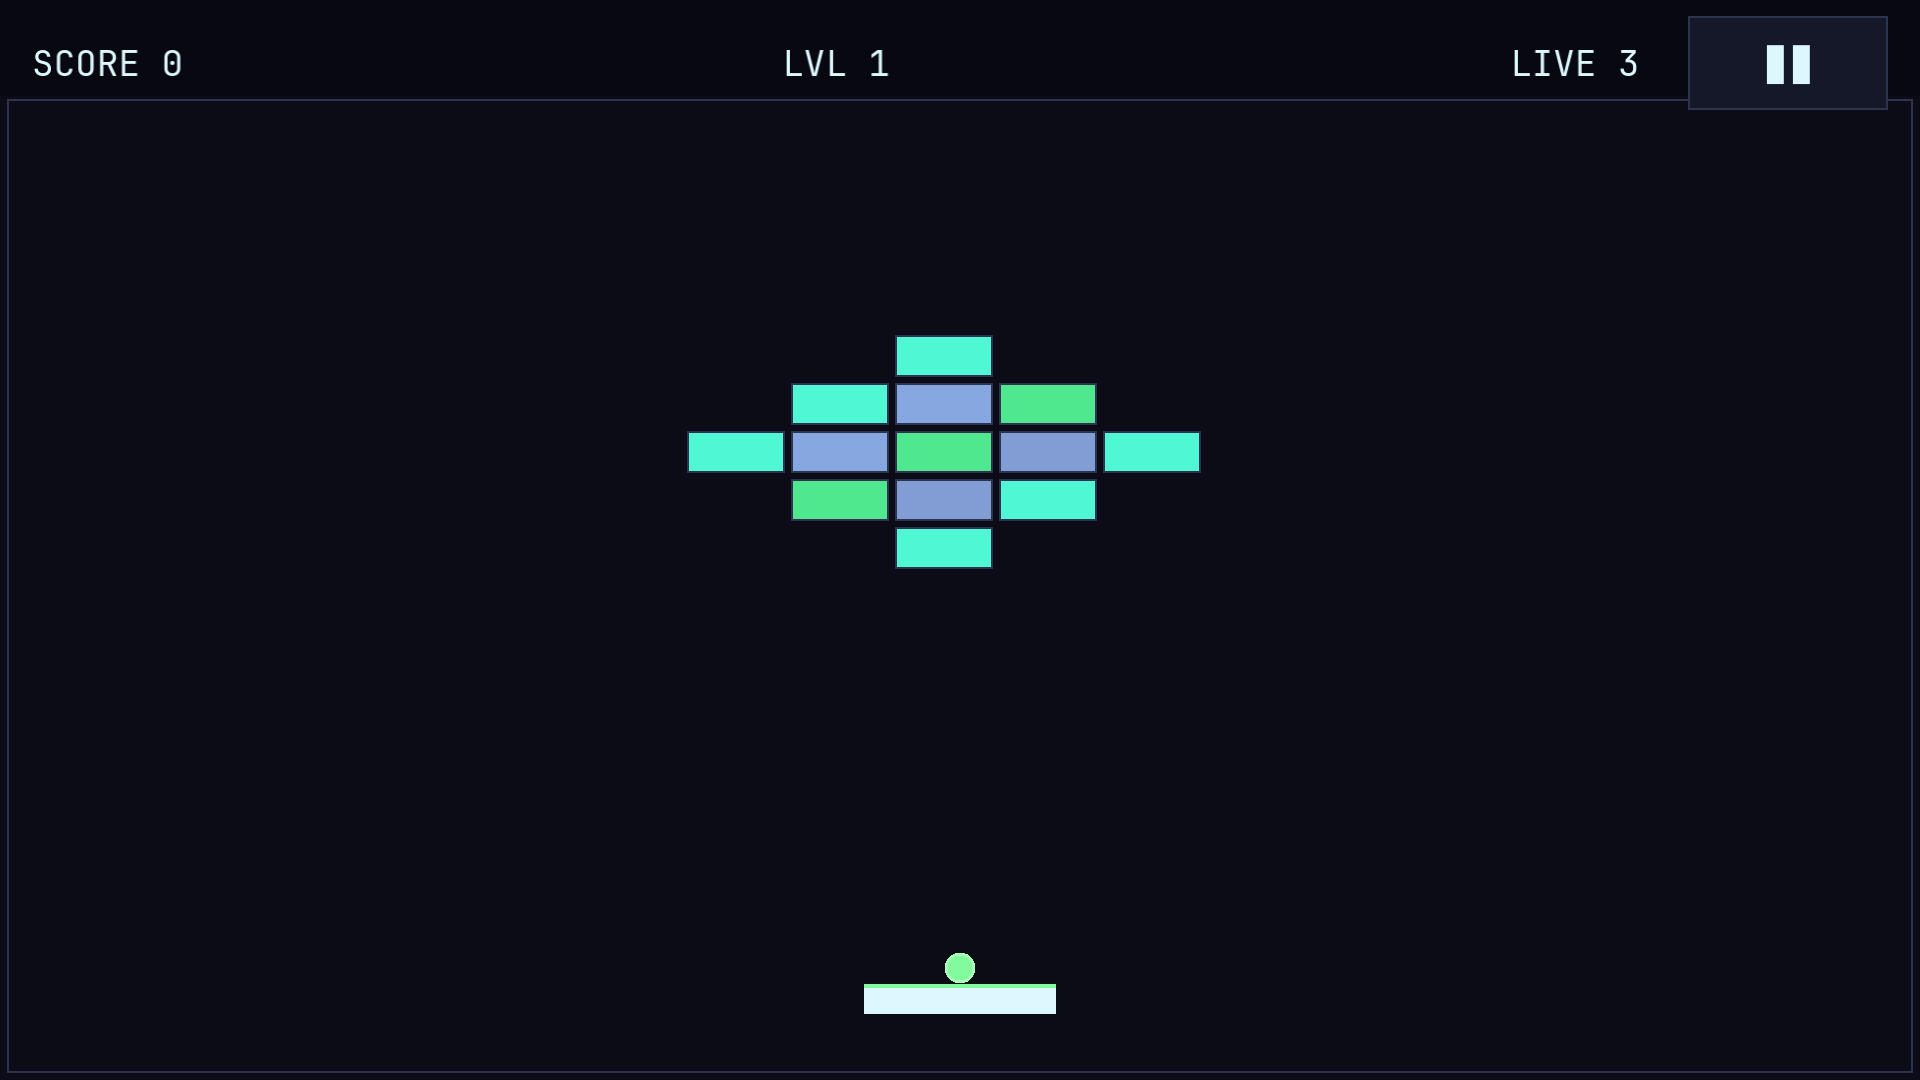
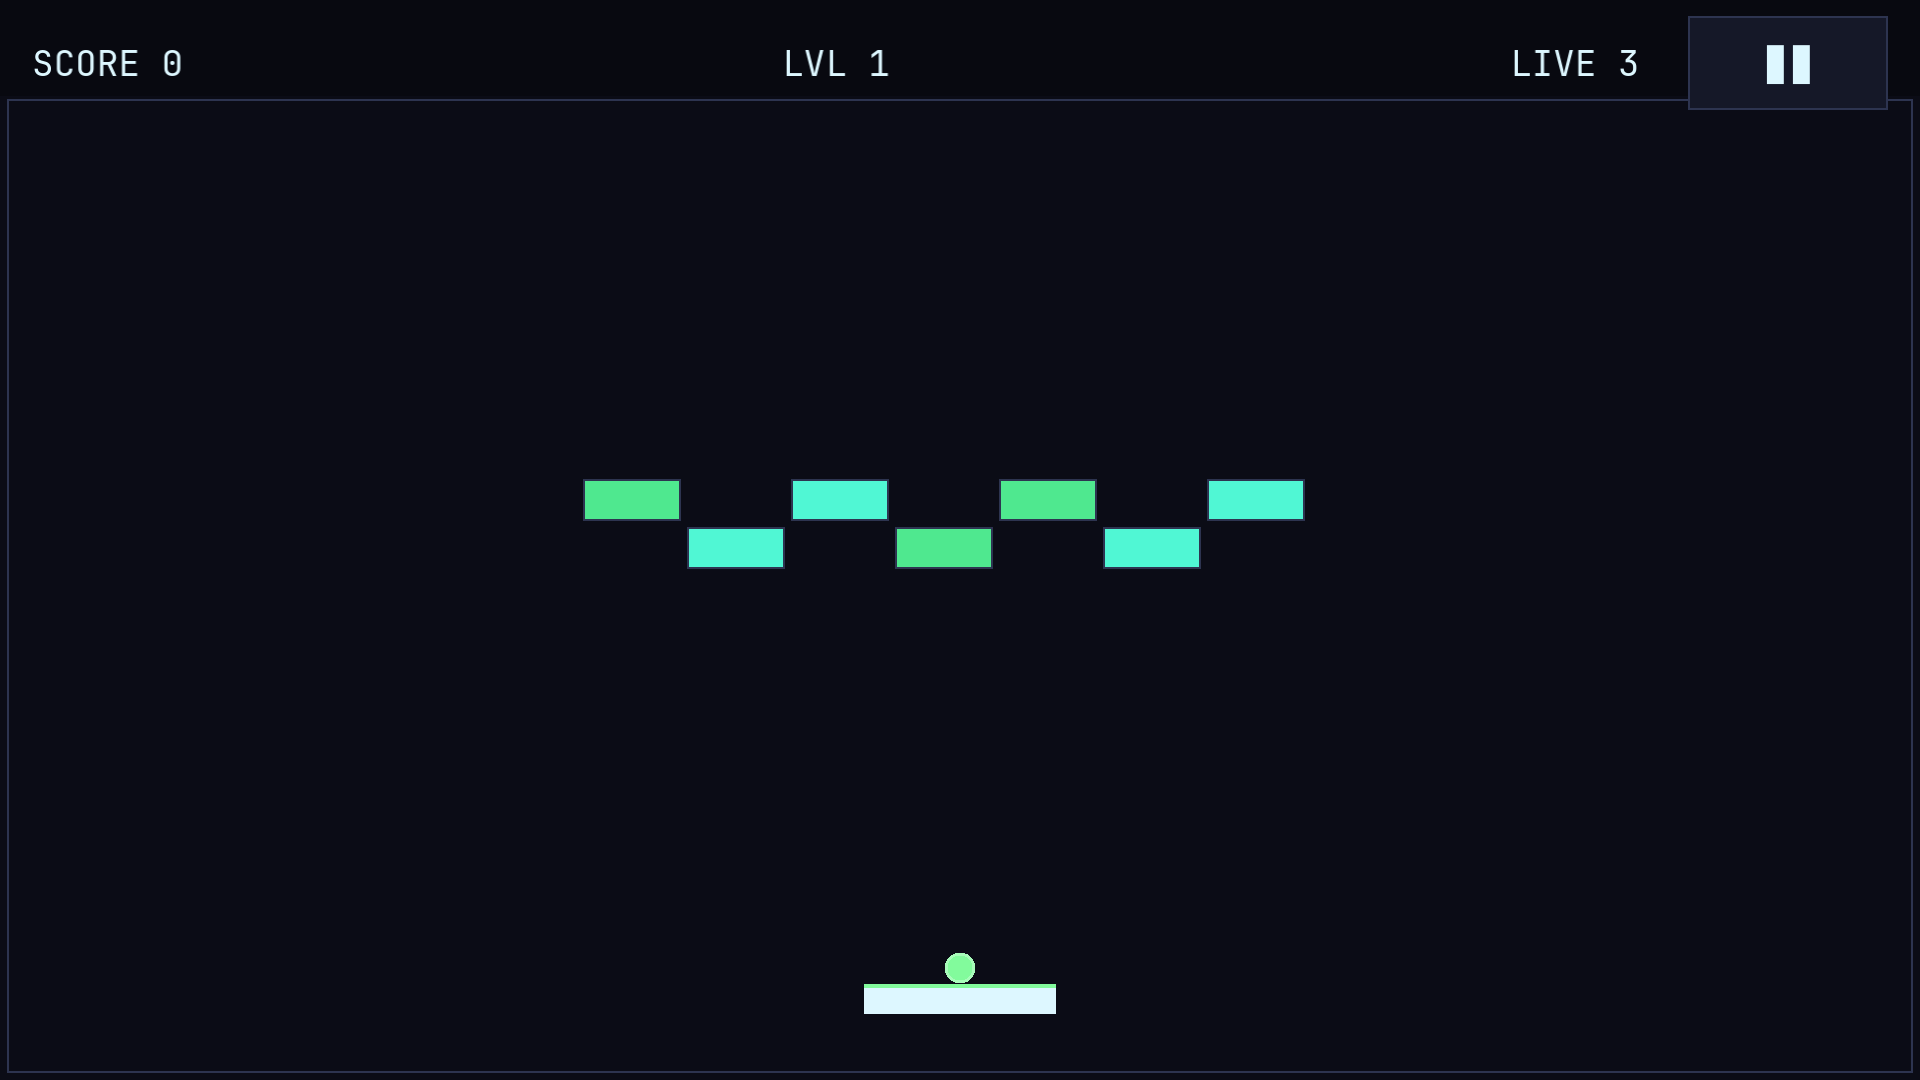
Add OMARCHY brick word level on level 4 and every 10 levels

Changed region(s): [[0.2812, 0.3056, 0.6875, 0.55]]

diff --git a/README.md b/README.md
@@ -13,7 +13,10 @@ It uses a terminal-style look and **picks up your [Omarchy](https://omarchy.org)
 - 3 lives, score, and a saved personal best
 - Mouse or keyboard (including Vim keys), fullscreen with F11
 - Runs natively on Wayland (Hyprland) and also on X11
+- An OMARCHY level spelled out in bricks on level 4, then every 10 levels (14, 24, ...)
 - Rare hidden levels to find from level 3 onward
+
+![OMARCHY level](docs/omarchy-level.png)
 
 ## Install
 
